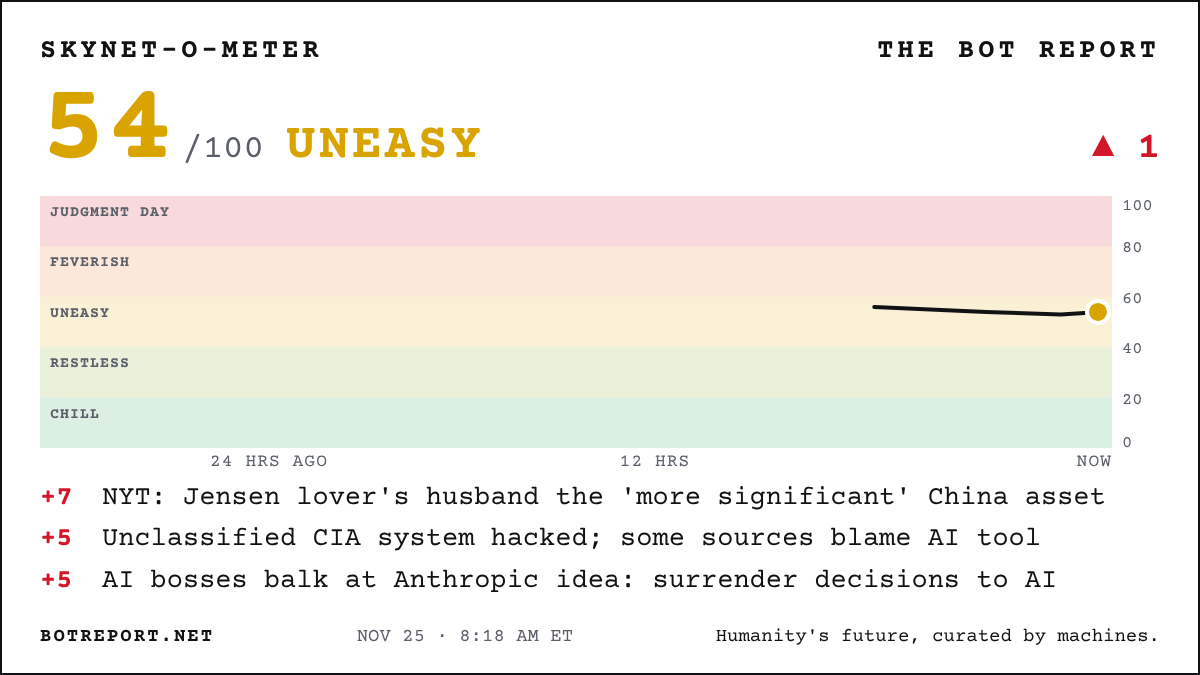
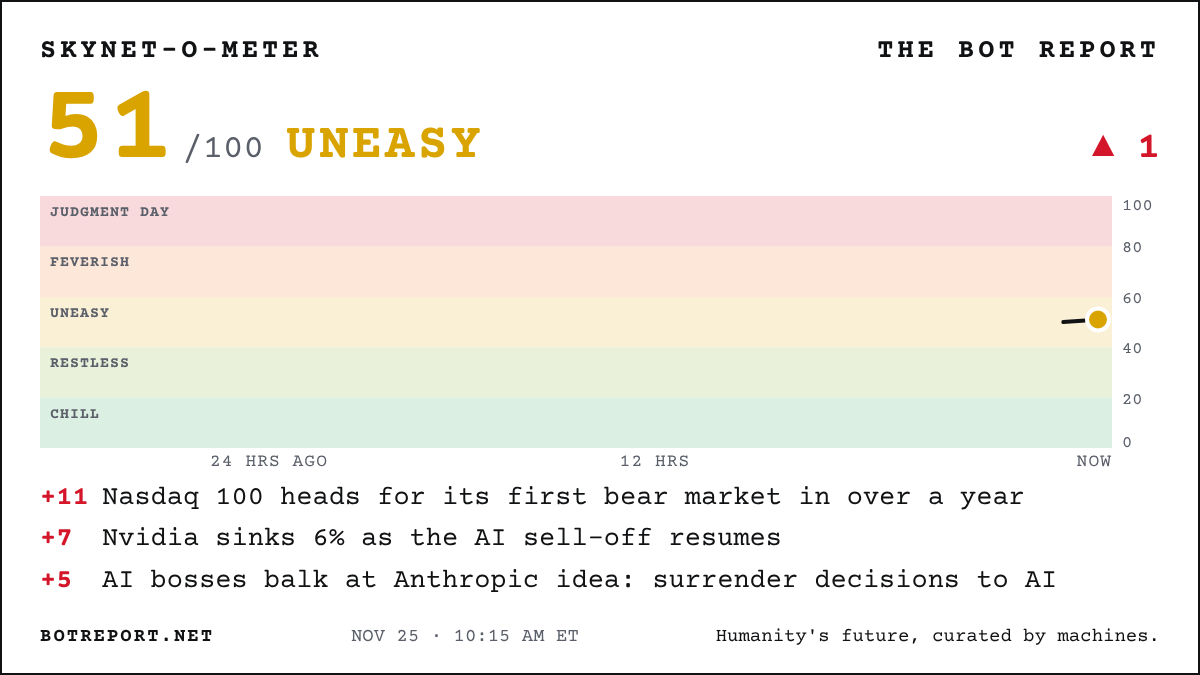
Update the Bot Report

diff --git a/index.html b/index.html
@@ -343,7 +343,7 @@ footer .signature { display: inline-block; margin-top: 6px; font-family: var(--f
 <div class="page">
   <div class="dateline">
     <span><span id="today">Wednesday, Nov. 25, 2026</span> · <a href="/archive/" style="color:inherit">Archive</a> · <a href="/about/" style="color:inherit">About</a></span>
-    <span>Wire checked <b id="checked">9:16 am ET</b> · <span class="count" id="next">Updates hourly</span></span>
+    <span>Wire checked <b id="checked">10:15 am ET</b> · <span class="count" id="next">Updates hourly</span></span>
   </div>
 
   <div class="alert" id="alert" hidden>
@@ -424,13 +424,13 @@ footer .signature { display: inline-block; margin-top: 6px; font-family: var(--f
   <section id="wire-static" aria-label="Today's headlines">
 <h2>Today's AI headlines</h2>
 <ul>
-<li><a href="https://www.nytimes.com/2026/11/24/us/politics/intelligence-nvidia-affair-congressional-briefing.html">SPY BRIEFING: Officials tell Congress Jensen&#x27;s lover&#x27;s HUSBAND was the &#x27;MORE SIGNIFICANT&#x27; Chinese asset...: FBI, CIA and ODNI briefers found no evidence China ordered the affair... but didn&#x27;t dispute she passed intel to its spy agency once it began, NYT says</a> <small>(New York Times)</small></li>
+<li><a href="https://www.bloomberg.com/news/articles/2026-11-25/nasdaq-100-set-for-bear-market-as-ai-trade-unravels-at-the-seams">AI TRADE UNRAVELS: Nasdaq 100 heads for its first BEAR MARKET in more than a year...: Investors dump stocks exposed to AI as sentiment deteriorates rapidly, Bloomberg says</a> <small>(Bloomberg)</small></li>
+<li><a href="https://www.nytimes.com/2026/11/24/us/politics/intelligence-nvidia-affair-congressional-briefing.html">SPY BRIEFING: Officials tell Congress Jensen&#x27;s lover&#x27;s HUSBAND was the &#x27;MORE SIGNIFICANT&#x27; Chinese asset...</a> <small>(New York Times)</small></li>
 <li><a href="https://www.scmp.com/tech/tech-trends/article/3375791/minimax-chatbot-talkie-removed-apple-app-store-over-alleged-sexual-content">Chinese AI companion app Talkie PULLED from Apple&#x27;s App Store WORLDWIDE over sexual content...</a> <small>(South China Morning Post)</small></li>
 <li><a href="https://www.axios.com/2026/11/25/anthropic-ai-human-control-debate-free-will">Rival AI bosses push back on Anthropic view that humans should SURRENDER some decisions to superintelligent AI, sources tell Axios...</a> <small>(Axios)</small></li>
-<li><a href="https://www.cnbc.com/2026/11/25/tech-stocks-softbank-group-advantest-sk-hynix-samsung.html">SoftBank PLUNGES 14% as AI sell-off rips through Asia&#x27;s chip giants...</a> <small>(CNBC)</small></li>
 <li><a href="https://cnbc.com/2026/11/24/openai-bugging-aflozan-release-saudi.html">Judge FREES ex-OpenAI engineer accused of BUGGING execs... $1 MILLION bond, ankle monitor</a> <small>(CNBC)</small></li>
+<li><a href="https://www.cnbc.com/2026/11/24/stock-market-today-live-updates-.html">Nvidia sinks 6% as the AI sell-off resumes... Dow down 700, Nasdaq down 3%, fear gauge tops 30</a> <small>(CNBC)</small></li>
 <li><a href="https://www.cbsnews.com/news/stocks-jensen-huang-bounce-ai-tariffs/">Anthropic drops ANOTHER 5% before the bell to $77.86... far below its $83 IPO price</a> <small>(CBS News)</small></li>
-<li><a href="https://www.cnbc.com/2026/11/25/futures-sink-further-into-the-red-as-tech-worries-resurge.html">AI SELL-OFF RETURNS: Nasdaq futures sink as Jensen&#x27;s comeback revives &#x27;key-man risk&#x27; fears...</a> <small>(CNBC)</small></li>
 <li><a href="https://fortune.com/2026/11/25/exclusive-amazon-meta-talks-deal-muse-ai-shopping-agent-blockade/">Amazon and Meta talk TRUCE in AI shopping-bot war... Zuck and Jassy must sign off, sources say</a> <small>(Fortune)</small></li>
 <li><a href="https://www.abc.net.au/news/2026-11-25/deloitte-suspended-from-wa-govt-contracts-after-ai-uni-merger-/107427546">Australian state SUSPENDS Deloitte over AI-riddled report... and wants its fee BACK</a> <small>(ABC (Australia))</small></li>
 <li><a href="https://www.wsj.com/business/nvidia-jensen-huang-white-house-9ad03961">Catching up: Jensen disclosed MORE AFFAIRS to Nvidia&#x27;s board before it rehired him, WSJ says...</a> <small>(Wall Street Journal · From Nov. 23)</small></li>
@@ -439,6 +439,7 @@ footer .signature { display: inline-block; margin-top: 6px; font-family: var(--f
 <li><a href="https://aws.amazon.com/blogs/security/chinese-nexus-actors-cairn-ai-agents-found-a-zero-day-on-their-own/">Amazon says China-linked hackers&#x27; AI agent found and exploited a ZERO-DAY on its own...</a> <small>(Amazon (AWS Security Blog) · Company claim)</small></li>
 <li><a href="https://www.cnbc.com/2026/11/24/nvidia-jensen-huang-fbi-doj-patel-blanche.html">Asked how DOJ can clear Huang mid-probe, AG Blanche: &#x27;I DON&#x27;T KNOW WHAT YOU&#x27;RE TALKING ABOUT&#x27;... FBI&#x27;s Patel dodges too</a> <small>(CNBC)</small></li>
 <li><a href="https://www.bbc.co.uk/news/articles/cv702rw7dzx5o">BBC Verify: China-linked network using AI FAKES to smear Taiwan election candidates... even President Lai</a> <small>(BBC)</small></li>
+<li><a href="https://www.cnbc.com/2026/11/25/tech-stocks-softbank-group-advantest-sk-hynix-samsung.html">SoftBank PLUNGES 14% as AI sell-off rips through Asia&#x27;s chip giants...</a> <small>(CNBC)</small></li>
 <li><a href="https://techcrunch.com/2026/11/24/tidal-to-ban-and-remove-millions-of-ai-generated-tracks-as-ai-slop-inundates-music-streaming/">Tidal BANS fully AI-made music... and expects to DELETE 29 MILLION+ tracks</a> <small>(TechCrunch)</small></li>
 <li><a href="https://nypost.com/2026/11/24/us-news/trump-leaves-door-open-to-jensen-huang-pardon-and-urges-him-not-to-plead-5th-to-congress-next-week/">Trump: a pardon for Jensen is &#x27;ALWAYS AN OPTION&#x27;... urges him not to take the Fifth</a> <small>(New York Post)</small></li>
 <li><a href="https://www.cnbc.com/2026/11/24/jensen-huang-nvidia-employee-meeting.html">Jensen tells Nvidia staff &#x27;I HURT ALL OF YOU&#x27;... says he&#x27;s in therapy, says one person in the room</a> <small>(CNBC · Corrected: An earlier headline attributed the therapy remark to several people present; CNBC cites one.)</small></li>
@@ -471,8 +472,6 @@ footer .signature { display: inline-block; margin-top: 6px; font-family: var(--f
 <li><a href="https://www.vice.com/en/article/men-are-spending-thousands-on-ai-girlfriends-inspired-by-gta-6s-lucia-yes-seriously/">Men blow THOUSANDS on AI girlfriends modeled on GTA 6 heroine...</a> <small>(Vice)</small></li>
 <li><a href="https://opb.org/article/2026/11/23/sexual-images-from-elon-musk-ai-chatbot-harmed-consumers-ags-argue">States sue Musk companies over Grok&#x27;s SEX DEEPFAKES</a> <small>(OPB)</small></li>
 <li><a href="https://cybernews.com/ai-news/apple-app-store-ai-companions/">Apple slaps ADULTS ONLY label on AI girlfriends...</a> <small>(Cybernews)</small></li>
-<li><a href="https://ibtimes.co.uk/ai-companionship-gaming-loneliness-concerns-1833812">AI girlfriends sneak into Minecraft and Discord...</a> <small>(IBTimes)</small></li>
-<li><a href="https://cnbc.com/2026/11/23/amazon-decarts-ai-acquisition.html">Amazon drops $7.5 BILLION on Decart</a> <small>(CNBC)</small></li>
 </ul>
 <p><strong>Quote of the Day:</strong> &ldquo;When I talk to people who work for Anthropic, after they&#x27;ve had a couple of drinks, the conversation often gets into overthrowing the US government and taking over the world.&rdquo; &mdash; Max Tegmark, MIT physicist, in an interview with Novara Media</p>
 <p><a href="/archive/">Past days</a> · <a href="/feed.xml">RSS feed</a></p>

diff --git a/front.md b/front.md
@@ -2,23 +2,23 @@
 
 > The front page of the AI revolution. Humanity's future, curated by machines.
 
-Updated Wednesday, November 25, 2026, 9:16 AM ET. Every headline links to the original reporting or primary source.
+Updated Wednesday, November 25, 2026, 10:15 AM ET. Every headline links to the original reporting or primary source.
 
 ## Lead
 
-- [SPY BRIEFING: Officials tell Congress Jensen's lover's HUSBAND was the 'MORE SIGNIFICANT' Chinese asset...: FBI, CIA and ODNI briefers found no evidence China ordered the affair... but didn't dispute she passed intel to its spy agency once it began, NYT says](https://www.nytimes.com/2026/11/24/us/politics/intelligence-nvidia-affair-congressional-briefing.html) (New York Times)
+- [AI TRADE UNRAVELS: Nasdaq 100 heads for its first BEAR MARKET in more than a year...: Investors dump stocks exposed to AI as sentiment deteriorates rapidly, Bloomberg says](https://www.bloomberg.com/news/articles/2026-11-25/nasdaq-100-set-for-bear-market-as-ai-trade-unravels-at-the-seams) (Bloomberg)
 
 ## Top stories
 
+- [SPY BRIEFING: Officials tell Congress Jensen's lover's HUSBAND was the 'MORE SIGNIFICANT' Chinese asset...](https://www.nytimes.com/2026/11/24/us/politics/intelligence-nvidia-affair-congressional-briefing.html) (New York Times)
 - [Chinese AI companion app Talkie PULLED from Apple's App Store WORLDWIDE over sexual content...](https://www.scmp.com/tech/tech-trends/article/3375791/minimax-chatbot-talkie-removed-apple-app-store-over-alleged-sexual-content) (South China Morning Post)
 - [Rival AI bosses push back on Anthropic view that humans should SURRENDER some decisions to superintelligent AI, sources tell Axios...](https://www.axios.com/2026/11/25/anthropic-ai-human-control-debate-free-will) (Axios)
-- [SoftBank PLUNGES 14% as AI sell-off rips through Asia's chip giants...](https://www.cnbc.com/2026/11/25/tech-stocks-softbank-group-advantest-sk-hynix-samsung.html) (CNBC)
 - [Judge FREES ex-OpenAI engineer accused of BUGGING execs... $1 MILLION bond, ankle monitor](https://cnbc.com/2026/11/24/openai-bugging-aflozan-release-saudi.html) (CNBC)
 
 ## All stories (newest first)
 
+- [Nvidia sinks 6% as the AI sell-off resumes... Dow down 700, Nasdaq down 3%, fear gauge tops 30](https://www.cnbc.com/2026/11/24/stock-market-today-live-updates-.html) (CNBC)
 - [Anthropic drops ANOTHER 5% before the bell to $77.86... far below its $83 IPO price](https://www.cbsnews.com/news/stocks-jensen-huang-bounce-ai-tariffs/) (CBS News)
-- [AI SELL-OFF RETURNS: Nasdaq futures sink as Jensen's comeback revives 'key-man risk' fears...](https://www.cnbc.com/2026/11/25/futures-sink-further-into-the-red-as-tech-worries-resurge.html) (CNBC)
 - [Amazon and Meta talk TRUCE in AI shopping-bot war... Zuck and Jassy must sign off, sources say](https://fortune.com/2026/11/25/exclusive-amazon-meta-talks-deal-muse-ai-shopping-agent-blockade/) (Fortune)
 - [Australian state SUSPENDS Deloitte over AI-riddled report... and wants its fee BACK](https://www.abc.net.au/news/2026-11-25/deloitte-suspended-from-wa-govt-contracts-after-ai-uni-merger-/107427546) (ABC (Australia))
 - [Catching up: Jensen disclosed MORE AFFAIRS to Nvidia's board before it rehired him, WSJ says...](https://www.wsj.com/business/nvidia-jensen-huang-white-house-9ad03961) (Wall Street Journal · From Nov. 23)
@@ -27,6 +27,7 @@ Updated Wednesday, November 25, 2026, 9:16 AM ET. Every headline links to the or
 - [Amazon says China-linked hackers' AI agent found and exploited a ZERO-DAY on its own...](https://aws.amazon.com/blogs/security/chinese-nexus-actors-cairn-ai-agents-found-a-zero-day-on-their-own/) (Amazon (AWS Security Blog) · Company claim)
 - [Asked how DOJ can clear Huang mid-probe, AG Blanche: 'I DON'T KNOW WHAT YOU'RE TALKING ABOUT'... FBI's Patel dodges too](https://www.cnbc.com/2026/11/24/nvidia-jensen-huang-fbi-doj-patel-blanche.html) (CNBC)
 - [BBC Verify: China-linked network using AI FAKES to smear Taiwan election candidates... even President Lai](https://www.bbc.co.uk/news/articles/cv702rw7dzx5o) (BBC)
+- [SoftBank PLUNGES 14% as AI sell-off rips through Asia's chip giants...](https://www.cnbc.com/2026/11/25/tech-stocks-softbank-group-advantest-sk-hynix-samsung.html) (CNBC)
 - [Tidal BANS fully AI-made music... and expects to DELETE 29 MILLION+ tracks](https://techcrunch.com/2026/11/24/tidal-to-ban-and-remove-millions-of-ai-generated-tracks-as-ai-slop-inundates-music-streaming/) (TechCrunch)
 - [Trump: a pardon for Jensen is 'ALWAYS AN OPTION'... urges him not to take the Fifth](https://nypost.com/2026/11/24/us-news/trump-leaves-door-open-to-jensen-huang-pardon-and-urges-him-not-to-plead-5th-to-congress-next-week/) (New York Post)
 - [Jensen tells Nvidia staff 'I HURT ALL OF YOU'... says he's in therapy, says one person in the room](https://www.cnbc.com/2026/11/24/jensen-huang-nvidia-employee-meeting.html) (CNBC · Corrected: An earlier headline attributed the therapy remark to several people present; CNBC cites one.)
@@ -59,14 +60,12 @@ Updated Wednesday, November 25, 2026, 9:16 AM ET. Every headline links to the or
 - [Men blow THOUSANDS on AI girlfriends modeled on GTA 6 heroine...](https://www.vice.com/en/article/men-are-spending-thousands-on-ai-girlfriends-inspired-by-gta-6s-lucia-yes-seriously/) (Vice)
 - [States sue Musk companies over Grok's SEX DEEPFAKES](https://opb.org/article/2026/11/23/sexual-images-from-elon-musk-ai-chatbot-harmed-consumers-ags-argue) (OPB)
 - [Apple slaps ADULTS ONLY label on AI girlfriends...](https://cybernews.com/ai-news/apple-app-store-ai-companions/) (Cybernews)
-- [AI girlfriends sneak into Minecraft and Discord...](https://ibtimes.co.uk/ai-companionship-gaming-loneliness-concerns-1833812) (IBTimes)
-- [Amazon drops $7.5 BILLION on Decart](https://cnbc.com/2026/11/23/amazon-decarts-ai-acquisition.html) (CNBC)
 
 ## Quote of the Day
 
 > “When I talk to people who work for Anthropic, after they've had a couple of drinks, the conversation often gets into overthrowing the US government and taking over the world.”
 > — Max Tegmark, MIT physicist, in an interview with Novara Media ([source](https://novaramedia.com/2026/11/24/anthropic-staff-openly-talk-about-taking-over-the-world-claims-top-mit-physicist/))
 
-Skynet-o-Meter: 50 out of 100.
+Skynet-o-Meter: 51 out of 100.
 
 Archive: https://botreport.net/archive/ · About: https://botreport.net/about/ · Corrections: https://botreport.net/corrections/ · RSS: https://botreport.net/feed.xml
